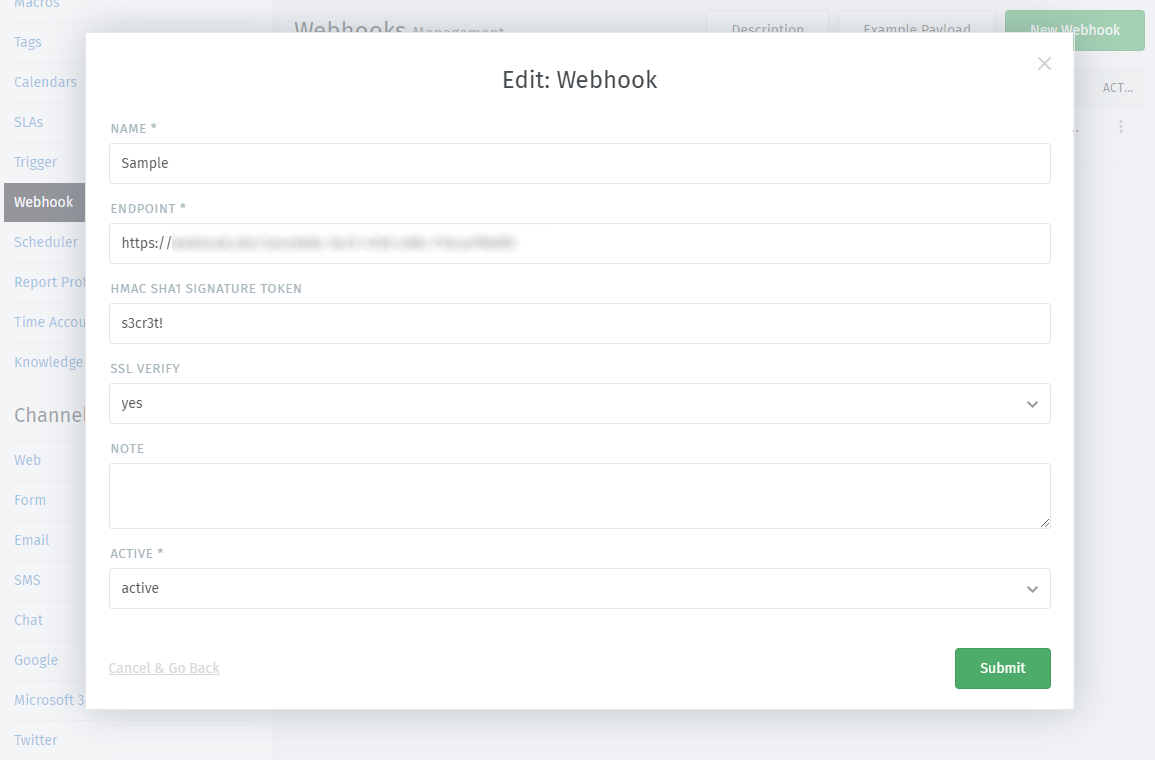
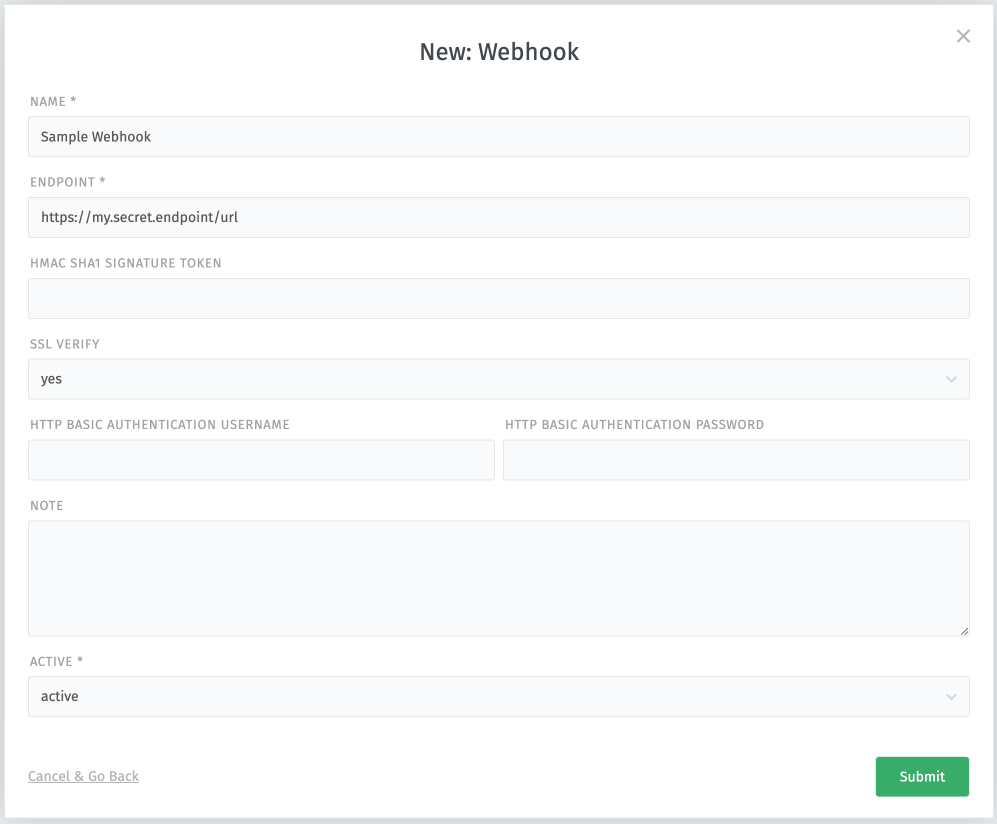
Add documentation for basic auth for webhooks feature. (#223)
* Add documentation for basic auth for webhooks feature.

* Replaced screenshot.

Changed region(s): [[0.0, 0.0, 1.0, 1.0], [0.4975, 0.4842, 0.7773, 0.5447]]

diff --git a/manage/webhook/add.rst b/manage/webhook/add.rst
@@ -3,7 +3,7 @@ Adding webhooks
 
 Webhooks are defined globally.
 This allows you to use one specific endpoint on several triggers or schedulers.
-   
+
    .. warning:: **🦻 Zammad webhooks are specific**
 
       Keep in mind that the remote site has to be able to understand the
@@ -43,6 +43,12 @@ You can configure the following information to webhooks:
    SSL verify
       Defaults to ``yes`` - if you're using unsecure self signed certificates
       set this option to ``no``.
+
+   HTTP Basic Authentication Username
+      Set this if the endpoint requires HTTP basic authentication credentials.
+
+   HTTP Basic Authentication Password
+      Set this if the endpoint requires HTTP basic authentication credentials.
 
    Note
       If required you can leave useful information for other Zammad admins

diff --git a/README.md b/README.md
@@ -17,7 +17,7 @@ If you would like to improve the docs, simply:
 > (or request additional languages) [here][wbetranslate].
 > Do **NOT** submit a PR with changes to the contents of the `locale/` directory.
 
-Thanks! ❤ ❤ ❤  
+Thanks! ❤ ❤ ❤
    The Zammad Team
 
 ### ReStructuredText Markup
@@ -53,7 +53,7 @@ This will ensure that your changes are available upon merge.
 * sphinx
 
   ```
-  $ pip install sphinx sphinx-autobuild sphinx-intl sphinx_rtd_theme sphinx-tabs
+  $ pip install -r requirements.txt
   ```
 
 * gettext
